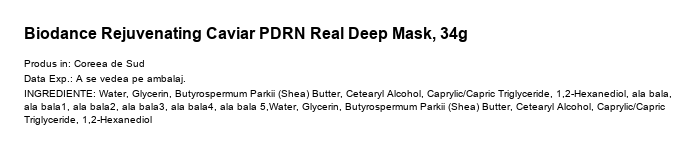
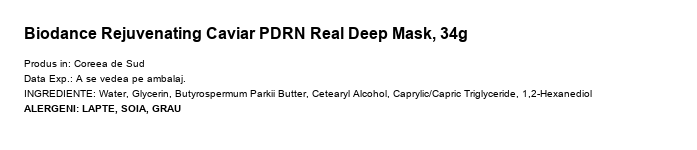
Add optional bold allergens block

Changed region(s): [[0.0301, 0.48, 0.9641, 0.8], [0.0301, 0.16, 0.693, 0.2933], [0.0301, 0.3733, 0.2109, 0.4533]]

diff --git a/src/label/engine.py b/src/label/engine.py
@@ -10,6 +10,7 @@ from .blocks.title_block import TitleBlock
 from .blocks.country_block import CountryBlock
 from .blocks.expiry_block import ExpiryBlock
 from .blocks.ingredients_block import IngredientsBlock
+from .blocks.allergens_block import AllergensBlock
 
 class LabelEngine:
 
@@ -75,8 +76,12 @@ class LabelEngine:
             ),
             (
                 IngredientsBlock(product, self.context),
-                0,
+                section_spacing_px,
             ),
+            (
+                AllergensBlock(product, self.context),
+                0,
+            )
         ]
 
         measured_blocks = []

diff --git a/src/label/blocks/allergens_block.py b/src/label/blocks/allergens_block.py
@@ -1,0 +1,18 @@
+from .text_block import TextBlock
+
+
+class AllergensBlock(TextBlock):
+
+    def __init__(self, product, context):
+        text = ""
+
+        if product.allergens.strip():
+            text = f"ALERGENI: {product.allergens}"
+
+        super().__init__(
+            product=product,
+            text=text,
+            font_size=context.style.body_font_size,
+            bold=True,
+            align="left",
+        )

diff --git a/src/product_factory.py b/src/product_factory.py
@@ -30,6 +30,8 @@ class ProductFactory:
 
             ingredients=str(row["Ingrediente/Alergeni"]),
 
+            allergens=str(row["Alergeni"]),
+
             nutrition=str(row["Valori nutritionale"]),
 
             usage=str(row["Mod utilizare"]),

diff --git a/src/product.py b/src/product.py
@@ -17,6 +17,7 @@ class Product:
     weight: str
 
     ingredients: str
+    allergens: str
     nutrition: str
     usage: str
     expiry: str
